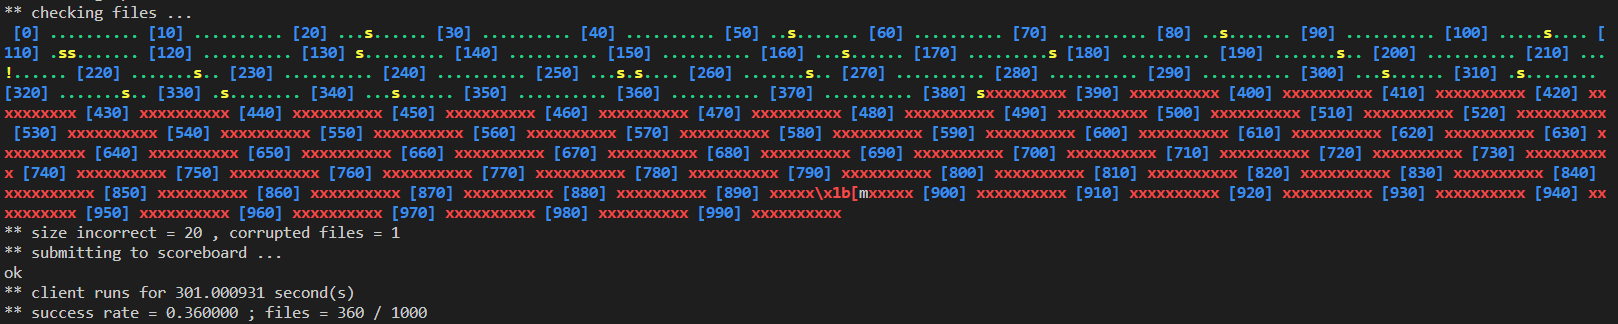
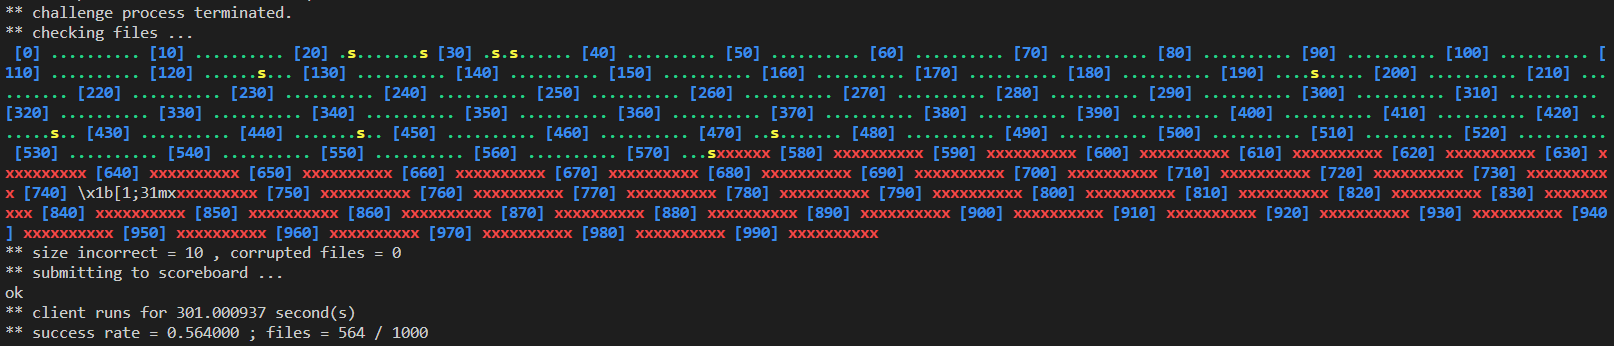
1. set MAXLINE = 512 2. solve bug in udpsrv (send ack if receive a packet with eof)

Changed region(s): [[0.0, 0.0, 1.0, 0.8025], [0.0, 0.8333, 0.2788, 0.9877]]

diff --git a/udpcli.c b/udpcli.c
@@ -80,13 +80,17 @@ int main(int argc, char *argv[]) {
 		}
 		else
 		{
+			/* Read file */
 			seq_no = 0;
 			while (read(fr, pkt.data, sizeof(pkt.data)) > 0) {
-				if (file_no == ack.file_no && seq_no < ack.seq_no) continue;
-				// if (strlen(pkt.data) < MAXLINE-1) pkt.eof = 1;
+				if (file_no == ack.file_no && seq_no < ack.seq_no) {
+					memset(&pkt.data, 0, sizeof(pkt.data));
+					continue;
+				}
 
 				// printpkt(&pkt);
 
+				/* Send packet */
 				for (int i = 0; i < 32; i++) {
 					if(sendto(s, (void*) &pkt, sizeof(pkt), 0, (struct sockaddr*) &sin, sizeof(sin)) < 0)
 						perror("sendto");
@@ -99,13 +103,12 @@ int main(int argc, char *argv[]) {
 				memset(&pkt.data, 0, sizeof(pkt.data));
 			}
 
-			if (pkt.eof == 0) {
-				pkt.eof = 1;
-				for (int i = 0; i < 32; i++) {
-					if(sendto(s, (void*) &pkt, sizeof(pkt), 0, (struct sockaddr*) &sin, sizeof(sin)) < 0)
-						perror("sendto");
-					usleep(1);
-				}
+			/* Send eof packet */
+			pkt.eof = 1;
+			for (int i = 0; i < 32; i++) {
+				if(sendto(s, (void*) &pkt, sizeof(pkt), 0, (struct sockaddr*) &sin, sizeof(sin)) < 0)
+					perror("sendto");
+				usleep(1);
 			}
 
 			close(fr);

diff --git a/udpsrv.c b/udpsrv.c
@@ -74,7 +74,13 @@ int main(int argc, char *argv[]) {
 			/* Store */
 			if (file_no == pkt.file_no && seq_no == pkt.seq_no)
 			{
-				printf("Receive packet name: %d\tseq: %d\teof: %d\n", pkt.file_no, pkt.seq_no, pkt.eof);
+				printf("Receive packet name: %06d\tseq: %d\teof: %d\n", pkt.file_no, pkt.seq_no, pkt.eof);
+
+				if (pkt.eof == 1) {
+					file_no++;
+					seq_no = 0;
+					break;
+				}
 
 				ack_t ack = {.file_no = file_no, .seq_no = seq_no};
 				sendto(s, (void*) &ack, sizeof(ack), 0, (struct sockaddr*) &csin, sizeof(csin));
@@ -84,11 +90,6 @@ int main(int argc, char *argv[]) {
 				
 				seq_no++;
 
-				if (pkt.eof == 1) {
-					file_no++;
-					seq_no = 0;
-					break;	
-				}
 			}
 			
 			memset(&pkt, 0, sizeof(pkt));

diff --git a/include/lib.h b/include/lib.h
@@ -15,7 +15,7 @@
 
 #define err_quit(m) { perror(m); exit(-1); }
 
-#define MAXLINE 1024
+#define MAXLINE 512
 
 typedef struct {
     int     file_no;
